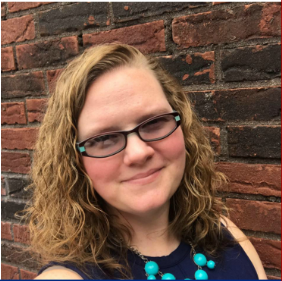
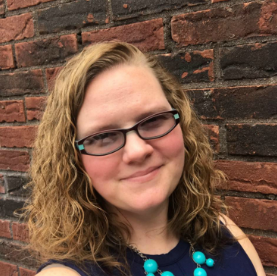
photo white edges fix

diff --git a/css/main.css b/css/main.css
@@ -8,6 +8,11 @@ html {
   box-sizing: inherit;
 }
 
+img {
+  margin: 0;
+  padding: 0;
+}
+
 .header-container {
   text-align: center;
 }
@@ -83,7 +88,7 @@ nav a {
   display: block;
   margin: auto;
   border: 5px solid rgb(96, 68, 209);
-  box-shadow: 3px 3px 5px 6px rgb(0, 0, 0, 0.4);
+  box-shadow: 3px 3px 5px 6px rgb(0, 0, 0, 0.4);  
 }
 
 .kids-portrait {
